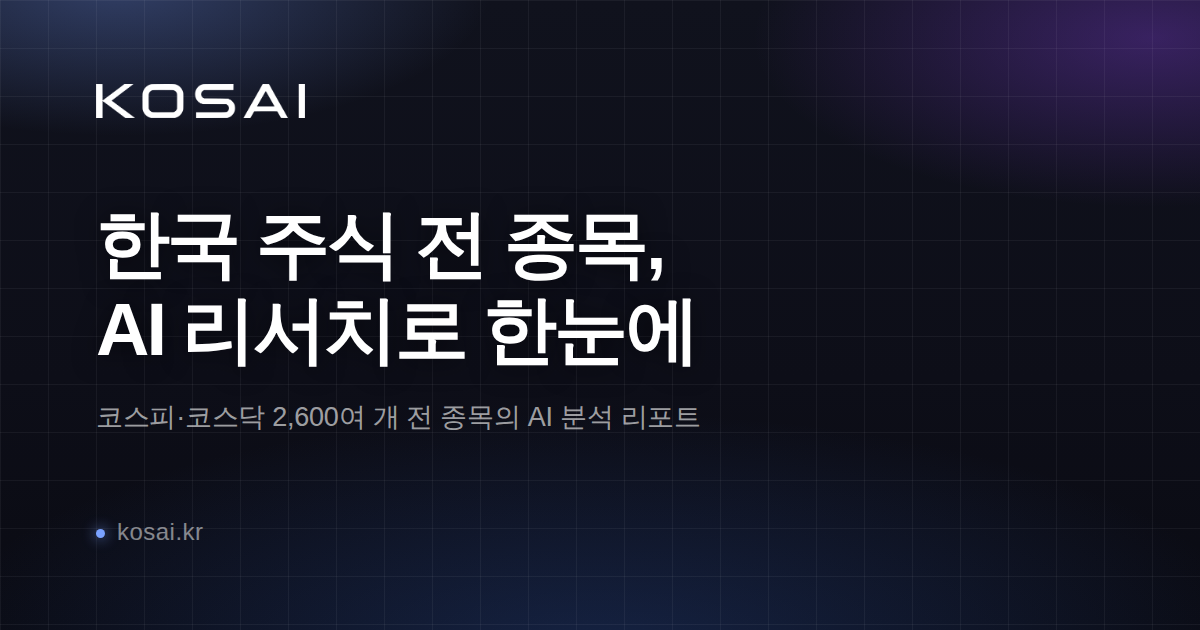
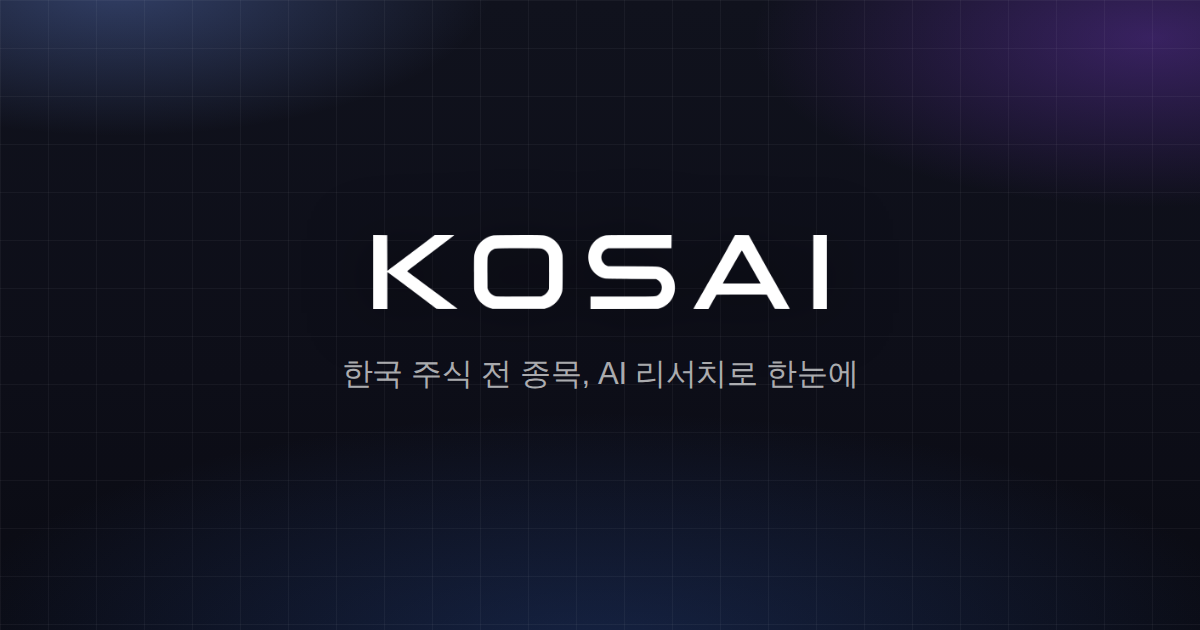
OG 공유 이미지 단순화: 로고 + 카피 1줄 중앙 배치, 캐시 무효화(v=2)
https://claude.ai/code/session_01M8QxqbMBAQn4aZSuZNfkxQ

Changed region(s): [[0.0617, 0.3317, 0.74, 0.6937], [0.0617, 0.1206, 0.2775, 0.2111], [0.0617, 0.8143, 0.185, 0.8746]]

diff --git a/About.html b/About.html
@@ -12,13 +12,13 @@
 <meta property="og:title" content="About — KOSAI" />
 <meta property="og:description" content="KOSAI는 한국 상장사 전 종목을 다루는 AI 리서치 서비스입니다. 데이터 출처와 작동 방식을 소개합니다." />
 <meta property="og:url" content="https://kosai.kr/About.html" />
-<meta property="og:image" content="https://kosai.kr/assets/og-image.png" />
+<meta property="og:image" content="https://kosai.kr/assets/og-image.png?v=2" />
 <meta property="og:image:width" content="1200" />
 <meta property="og:image:height" content="630" />
 <meta name="twitter:card" content="summary_large_image" />
 <meta name="twitter:title" content="About — KOSAI" />
 <meta name="twitter:description" content="KOSAI는 한국 상장사 전 종목을 다루는 AI 리서치 서비스입니다. 데이터 출처와 작동 방식을 소개합니다." />
-<meta name="twitter:image" content="https://kosai.kr/assets/og-image.png" />
+<meta name="twitter:image" content="https://kosai.kr/assets/og-image.png?v=2" />
 <style>
 @font-face{font-family:"Pretendard";font-weight:400;font-style:normal;font-display:swap;src:url("fonts/Pretendard-Regular.woff2") format("woff2"), url("fonts/Pretendard-Regular.otf") format("opentype")}
 @font-face{font-family:"Pretendard";font-weight:500;font-style:normal;font-display:swap;src:url("fonts/Pretendard-Medium.woff2") format("woff2"), url("fonts/Pretendard-Medium.otf") format("opentype")}

diff --git a/Contact.html b/Contact.html
@@ -12,13 +12,13 @@
 <meta property="og:title" content="문의하기 — KOSAI" />
 <meta property="og:description" content="KOSAI 서비스 관련 문의를 보내주세요." />
 <meta property="og:url" content="https://kosai.kr/Contact.html" />
-<meta property="og:image" content="https://kosai.kr/assets/og-image.png" />
+<meta property="og:image" content="https://kosai.kr/assets/og-image.png?v=2" />
 <meta property="og:image:width" content="1200" />
 <meta property="og:image:height" content="630" />
 <meta name="twitter:card" content="summary_large_image" />
 <meta name="twitter:title" content="문의하기 — KOSAI" />
 <meta name="twitter:description" content="KOSAI 서비스 관련 문의를 보내주세요." />
-<meta name="twitter:image" content="https://kosai.kr/assets/og-image.png" />
+<meta name="twitter:image" content="https://kosai.kr/assets/og-image.png?v=2" />
 <style>
 @font-face{font-family:"Pretendard";font-weight:400;font-style:normal;font-display:swap;src:url("fonts/Pretendard-Regular.woff2") format("woff2"), url("fonts/Pretendard-Regular.otf") format("opentype")}
 @font-face{font-family:"Pretendard";font-weight:500;font-style:normal;font-display:swap;src:url("fonts/Pretendard-Medium.woff2") format("woff2"), url("fonts/Pretendard-Medium.otf") format("opentype")}

diff --git a/Feedback.html b/Feedback.html
@@ -12,13 +12,13 @@
 <meta property="og:title" content="피드백 — KOSAI" />
 <meta property="og:description" content="KOSAI를 더 낫게 만들 의견을 들려주세요." />
 <meta property="og:url" content="https://kosai.kr/Feedback.html" />
-<meta property="og:image" content="https://kosai.kr/assets/og-image.png" />
+<meta property="og:image" content="https://kosai.kr/assets/og-image.png?v=2" />
 <meta property="og:image:width" content="1200" />
 <meta property="og:image:height" content="630" />
 <meta name="twitter:card" content="summary_large_image" />
 <meta name="twitter:title" content="피드백 — KOSAI" />
 <meta name="twitter:description" content="KOSAI를 더 낫게 만들 의견을 들려주세요." />
-<meta name="twitter:image" content="https://kosai.kr/assets/og-image.png" />
+<meta name="twitter:image" content="https://kosai.kr/assets/og-image.png?v=2" />
 <style>
 @font-face{font-family:"Pretendard";font-weight:400;font-style:normal;font-display:swap;src:url("fonts/Pretendard-Regular.woff2") format("woff2"), url("fonts/Pretendard-Regular.otf") format("opentype")}
 @font-face{font-family:"Pretendard";font-weight:500;font-style:normal;font-display:swap;src:url("fonts/Pretendard-Medium.woff2") format("woff2"), url("fonts/Pretendard-Medium.otf") format("opentype")}

diff --git a/Home.html b/Home.html
@@ -12,13 +12,13 @@
 <meta property="og:title" content="KOSAI — 한국 상장사 AI 리서치" />
 <meta property="og:description" content="오늘의 시장 현황과 업종별 주목 종목, 전 종목 AI 리포트를 한곳에서. 코스피·코스닥 2,600여 개 종목 커버." />
 <meta property="og:url" content="https://kosai.kr/Home.html" />
-<meta property="og:image" content="https://kosai.kr/assets/og-image.png" />
+<meta property="og:image" content="https://kosai.kr/assets/og-image.png?v=2" />
 <meta property="og:image:width" content="1200" />
 <meta property="og:image:height" content="630" />
 <meta name="twitter:card" content="summary_large_image" />
 <meta name="twitter:title" content="KOSAI — 한국 상장사 AI 리서치" />
 <meta name="twitter:description" content="오늘의 시장 현황과 업종별 주목 종목, 전 종목 AI 리포트를 한곳에서. 코스피·코스닥 2,600여 개 종목 커버." />
-<meta name="twitter:image" content="https://kosai.kr/assets/og-image.png" />
+<meta name="twitter:image" content="https://kosai.kr/assets/og-image.png?v=2" />
 <style>
 @font-face{font-family:"Pretendard";font-weight:400;font-style:normal;font-display:swap;
   src:url("fonts/Pretendard-Regular.woff2") format("woff2"), url("fonts/Pretendard-Regular.otf") format("opentype")}

diff --git a/Industry v2.html b/Industry v2.html
@@ -15,13 +15,13 @@
 <meta property="og:title" content="업종 분석 — KOSAI" />
 <meta property="og:description" content="업종별 시세와 종목 동향, 업종 내 주요 종목 비교 분석." />
 <meta property="og:url" content="https://kosai.kr/Industry%20v2.html" />
-<meta property="og:image" content="https://kosai.kr/assets/og-image.png" />
+<meta property="og:image" content="https://kosai.kr/assets/og-image.png?v=2" />
 <meta property="og:image:width" content="1200" />
 <meta property="og:image:height" content="630" />
 <meta name="twitter:card" content="summary_large_image" />
 <meta name="twitter:title" content="업종 분석 — KOSAI" />
 <meta name="twitter:description" content="업종별 시세와 종목 동향, 업종 내 주요 종목 비교 분석." />
-<meta name="twitter:image" content="https://kosai.kr/assets/og-image.png" />
+<meta name="twitter:image" content="https://kosai.kr/assets/og-image.png?v=2" />
 <style>
 @font-face{font-family:"Pretendard";font-weight:400;font-style:normal;font-display:swap;src:url("fonts/Pretendard-Regular.woff2") format("woff2"), url("fonts/Pretendard-Regular.otf") format("opentype")}
 @font-face{font-family:"Pretendard";font-weight:500;font-style:normal;font-display:swap;src:url("fonts/Pretendard-Medium.woff2") format("woff2"), url("fonts/Pretendard-Medium.otf") format("opentype")}

diff --git a/Login.html b/Login.html
@@ -12,13 +12,13 @@
 <meta property="og:title" content="로그인 — KOSAI" />
 <meta property="og:description" content="KOSAI 로그인." />
 <meta property="og:url" content="https://kosai.kr/Login.html" />
-<meta property="og:image" content="https://kosai.kr/assets/og-image.png" />
+<meta property="og:image" content="https://kosai.kr/assets/og-image.png?v=2" />
 <meta property="og:image:width" content="1200" />
 <meta property="og:image:height" content="630" />
 <meta name="twitter:card" content="summary_large_image" />
 <meta name="twitter:title" content="로그인 — KOSAI" />
 <meta name="twitter:description" content="KOSAI 로그인." />
-<meta name="twitter:image" content="https://kosai.kr/assets/og-image.png" />
+<meta name="twitter:image" content="https://kosai.kr/assets/og-image.png?v=2" />
 <style>
 @font-face{font-family:"Pretendard";font-weight:400;font-style:normal;font-display:swap;src:url("fonts/Pretendard-Regular.woff2") format("woff2"), url("fonts/Pretendard-Regular.otf") format("opentype")}
 @font-face{font-family:"Pretendard";font-weight:500;font-style:normal;font-display:swap;src:url("fonts/Pretendard-Medium.woff2") format("woff2"), url("fonts/Pretendard-Medium.otf") format("opentype")}

diff --git a/Privacy.html b/Privacy.html
@@ -12,13 +12,13 @@
 <meta property="og:title" content="개인정보처리방침 — KOSAI" />
 <meta property="og:description" content="KOSAI 개인정보처리방침." />
 <meta property="og:url" content="https://kosai.kr/Privacy.html" />
-<meta property="og:image" content="https://kosai.kr/assets/og-image.png" />
+<meta property="og:image" content="https://kosai.kr/assets/og-image.png?v=2" />
 <meta property="og:image:width" content="1200" />
 <meta property="og:image:height" content="630" />
 <meta name="twitter:card" content="summary_large_image" />
 <meta name="twitter:title" content="개인정보처리방침 — KOSAI" />
 <meta name="twitter:description" content="KOSAI 개인정보처리방침." />
-<meta name="twitter:image" content="https://kosai.kr/assets/og-image.png" />
+<meta name="twitter:image" content="https://kosai.kr/assets/og-image.png?v=2" />
 <style>
 @font-face{font-family:"Pretendard";font-weight:400;font-style:normal;font-display:swap;src:url("fonts/Pretendard-Regular.woff2") format("woff2"), url("fonts/Pretendard-Regular.otf") format("opentype")}
 @font-face{font-family:"Pretendard";font-weight:500;font-style:normal;font-display:swap;src:url("fonts/Pretendard-Medium.woff2") format("woff2"), url("fonts/Pretendard-Medium.otf") format("opentype")}

diff --git a/Reports.html b/Reports.html
@@ -12,13 +12,13 @@
 <meta property="og:title" content="AI 리포트 — KOSAI" />
 <meta property="og:description" content="코스피·코스닥 전 종목의 AI 분석 리포트 모음. 기업 개요, 재무 분석, 밸류에이션, 리스크 요인을 정리했습니다." />
 <meta property="og:url" content="https://kosai.kr/Reports.html" />
-<meta property="og:image" content="https://kosai.kr/assets/og-image.png" />
+<meta property="og:image" content="https://kosai.kr/assets/og-image.png?v=2" />
 <meta property="og:image:width" content="1200" />
 <meta property="og:image:height" content="630" />
 <meta name="twitter:card" content="summary_large_image" />
 <meta name="twitter:title" content="AI 리포트 — KOSAI" />
 <meta name="twitter:description" content="코스피·코스닥 전 종목의 AI 분석 리포트 모음. 기업 개요, 재무 분석, 밸류에이션, 리스크 요인을 정리했습니다." />
-<meta name="twitter:image" content="https://kosai.kr/assets/og-image.png" />
+<meta name="twitter:image" content="https://kosai.kr/assets/og-image.png?v=2" />
 <style>
 @font-face{font-family:"Pretendard";font-weight:400;font-style:normal;font-display:swap;src:url("fonts/Pretendard-Regular.woff2") format("woff2"), url("fonts/Pretendard-Regular.otf") format("opentype")}
 @font-face{font-family:"Pretendard";font-weight:500;font-style:normal;font-display:swap;src:url("fonts/Pretendard-Medium.woff2") format("woff2"), url("fonts/Pretendard-Medium.otf") format("opentype")}

diff --git a/Screener.html b/Screener.html
@@ -12,13 +12,13 @@
 <meta property="og:title" content="종목 스크리너 — KOSAI" />
 <meta property="og:description" content="시가총액·PER·PBR·배당수익률 등 조건으로 한국 주식 전 종목을 걸러내는 스크리너." />
 <meta property="og:url" content="https://kosai.kr/Screener.html" />
-<meta property="og:image" content="https://kosai.kr/assets/og-image.png" />
+<meta property="og:image" content="https://kosai.kr/assets/og-image.png?v=2" />
 <meta property="og:image:width" content="1200" />
 <meta property="og:image:height" content="630" />
 <meta name="twitter:card" content="summary_large_image" />
 <meta name="twitter:title" content="종목 스크리너 — KOSAI" />
 <meta name="twitter:description" content="시가총액·PER·PBR·배당수익률 등 조건으로 한국 주식 전 종목을 걸러내는 스크리너." />
-<meta name="twitter:image" content="https://kosai.kr/assets/og-image.png" />
+<meta name="twitter:image" content="https://kosai.kr/assets/og-image.png?v=2" />
 <style>
 @font-face{font-family:"Pretendard";font-weight:400;font-style:normal;font-display:swap;src:url("fonts/Pretendard-Regular.woff2") format("woff2"), url("fonts/Pretendard-Regular.otf") format("opentype")}
 @font-face{font-family:"Pretendard";font-weight:500;font-style:normal;font-display:swap;src:url("fonts/Pretendard-Medium.woff2") format("woff2"), url("fonts/Pretendard-Medium.otf") format("opentype")}

diff --git a/Signup.html b/Signup.html
@@ -12,13 +12,13 @@
 <meta property="og:title" content="회원가입 — KOSAI" />
 <meta property="og:description" content="KOSAI 회원가입." />
 <meta property="og:url" content="https://kosai.kr/Signup.html" />
-<meta property="og:image" content="https://kosai.kr/assets/og-image.png" />
+<meta property="og:image" content="https://kosai.kr/assets/og-image.png?v=2" />
 <meta property="og:image:width" content="1200" />
 <meta property="og:image:height" content="630" />
 <meta name="twitter:card" content="summary_large_image" />
 <meta name="twitter:title" content="회원가입 — KOSAI" />
 <meta name="twitter:description" content="KOSAI 회원가입." />
-<meta name="twitter:image" content="https://kosai.kr/assets/og-image.png" />
+<meta name="twitter:image" content="https://kosai.kr/assets/og-image.png?v=2" />
 <style>
 @font-face{font-family:"Pretendard";font-weight:400;font-style:normal;font-display:swap;src:url("fonts/Pretendard-Regular.woff2") format("woff2"), url("fonts/Pretendard-Regular.otf") format("opentype")}
 @font-face{font-family:"Pretendard";font-weight:500;font-style:normal;font-display:swap;src:url("fonts/Pretendard-Medium.woff2") format("woff2"), url("fonts/Pretendard-Medium.otf") format("opentype")}

diff --git a/Terms.html b/Terms.html
@@ -12,13 +12,13 @@
 <meta property="og:title" content="이용약관 — KOSAI" />
 <meta property="og:description" content="KOSAI 이용약관." />
 <meta property="og:url" content="https://kosai.kr/Terms.html" />
-<meta property="og:image" content="https://kosai.kr/assets/og-image.png" />
+<meta property="og:image" content="https://kosai.kr/assets/og-image.png?v=2" />
 <meta property="og:image:width" content="1200" />
 <meta property="og:image:height" content="630" />
 <meta name="twitter:card" content="summary_large_image" />
 <meta name="twitter:title" content="이용약관 — KOSAI" />
 <meta name="twitter:description" content="KOSAI 이용약관." />
-<meta name="twitter:image" content="https://kosai.kr/assets/og-image.png" />
+<meta name="twitter:image" content="https://kosai.kr/assets/og-image.png?v=2" />
 <style>
 @font-face{font-family:"Pretendard";font-weight:400;font-style:normal;font-display:swap;src:url("fonts/Pretendard-Regular.woff2") format("woff2"), url("fonts/Pretendard-Regular.otf") format("opentype")}
 @font-face{font-family:"Pretendard";font-weight:500;font-style:normal;font-display:swap;src:url("fonts/Pretendard-Medium.woff2") format("woff2"), url("fonts/Pretendard-Medium.otf") format("opentype")}

diff --git a/Ticker Detail v2.html b/Ticker Detail v2.html
@@ -15,13 +15,13 @@
 <meta property="og:title" content="종목 리포트 — KOSAI" />
 <meta property="og:description" content="종목별 AI 분석 리포트 — 핵심 지표, 재무 분석, 밸류에이션, 뉴스 요약과 리스크 요인." />
 <meta property="og:url" content="https://kosai.kr/Ticker%20Detail%20v2.html" />
-<meta property="og:image" content="https://kosai.kr/assets/og-image.png" />
+<meta property="og:image" content="https://kosai.kr/assets/og-image.png?v=2" />
 <meta property="og:image:width" content="1200" />
 <meta property="og:image:height" content="630" />
 <meta name="twitter:card" content="summary_large_image" />
 <meta name="twitter:title" content="종목 리포트 — KOSAI" />
 <meta name="twitter:description" content="종목별 AI 분석 리포트 — 핵심 지표, 재무 분석, 밸류에이션, 뉴스 요약과 리스크 요인." />
-<meta name="twitter:image" content="https://kosai.kr/assets/og-image.png" />
+<meta name="twitter:image" content="https://kosai.kr/assets/og-image.png?v=2" />
 <style>
 /* ===== KOSAI — Ticker Detail (shared DesignCode Glass system) ===== */
 @font-face{font-family:"Pretendard";font-weight:400;font-style:normal;font-display:swap;src:url("fonts/Pretendard-Regular.woff2") format("woff2"), url("fonts/Pretendard-Regular.otf") format("opentype")}